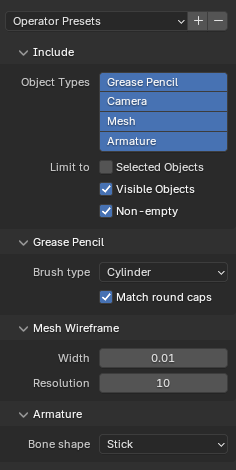
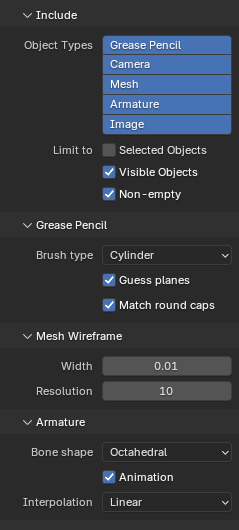
Added option to set the interpolation mode when exporting armature animation.

diff --git a/io_scene_quill/__init__.py b/io_scene_quill/__init__.py
@@ -260,6 +260,14 @@ class ExportQuill(bpy.types.Operator, ExportHelper):
         description="Export animation",
         default=True,
     )
+    
+    armature_interpolation: EnumProperty(
+        name="Interpolation",
+        items=(("STEPPED", "Stepped", ""),
+               ("LINEAR", "Linear", "")),
+        description="Interpolation method for armature animation",
+        default="STEPPED",
+    )
 
     def draw(self, context):
         pass
@@ -380,6 +388,7 @@ class QUILL_PT_export_armature(bpy.types.Panel):
 
         layout.prop(operator, "armature_bone_shape")
         layout.prop(operator, "armature_animation")
+        layout.prop(operator, "armature_interpolation")
 
 
 def menu_func_import(self, context):

diff --git a/io_scene_quill/exporters/paint_armature.py b/io_scene_quill/exporters/paint_armature.py
@@ -100,7 +100,8 @@ def convert(obj, config):
             transform = sequence.Transform(flip, list(rotation), scale[0], list(translation))
             
             if config["armature_animation"]:
-                keyframe = sequence.Keyframe("None", time, transform)
+                interpolation = "None" if config["armature_interpolation"] == "STEPPED" else "Linear"
+                keyframe = sequence.Keyframe(interpolation, time, transform)
                 kktt = bone_group_layer.animation.keys.transform
                 kktt.append(keyframe)
             else:

diff --git a/io_scene_quill/import_quill.py b/io_scene_quill/import_quill.py
@@ -3,7 +3,7 @@ import bpy
 import logging
 import mathutils
 from math import floor, radians
-from .importers import armature_group, curve_paint, gpencil_paint, mesh_material, mesh_paint, sound_sound
+from .importers import curve_paint, gpencil_paint, mesh_material, mesh_paint, sound_sound
 from .model import quill_utils
 from .utils import timeline
 